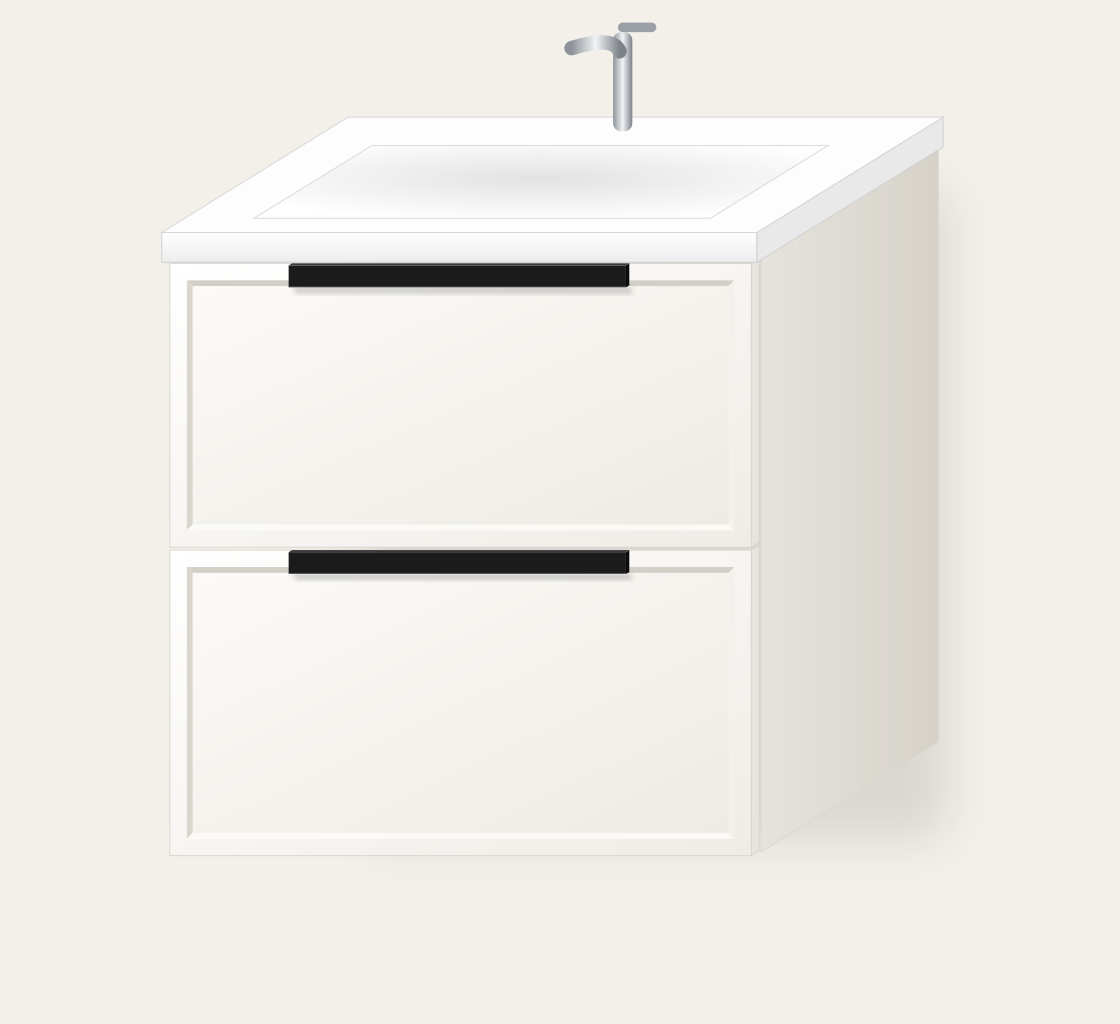
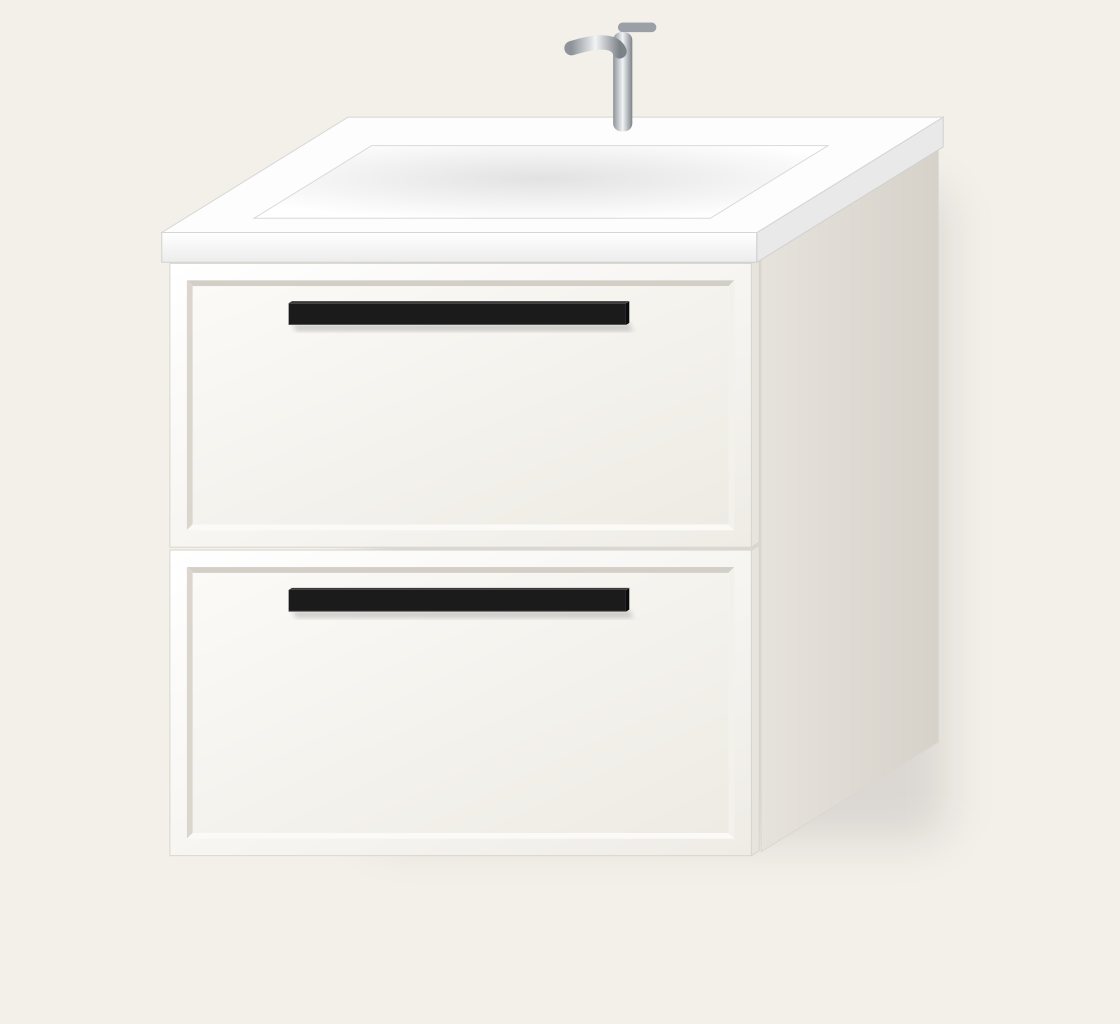
Модель 2: ручки LT22 под рамкой Мауры (38 мм от верха); сравнение вариантов
Claude-Session: https://claude.ai/code/session_01SKsW9NAaUaCHRJukYAe96U

Changed region(s): [[0.25, 0.5312, 0.5625, 0.625], [0.25, 0.25, 0.5625, 0.3438]]

diff --git a/modeli/vizual_podves.py b/modeli/vizual_podves.py
@@ -27,6 +27,9 @@ def handle(v, P, xy, hx, hy, zf=0):
     v.append(f'<line x1="{ax}" y1="{ay-2}" x2="{bx}" y2="{by-2}" stroke="rgba(255,255,255,.25)" stroke-width="1.4" stroke-linecap="round"/>')
 
 
+LT22_DROP = 38   # верх профиля LT22 от верхнего края фасада (модель 2, под рамкой)
+
+
 def handle_lt22(v, P, xy, poly, hx, top, zf=0, L=340, h=22, lip=8):
     """Профиль LT22 (ВіЯр 213758): чёрная накладка вдоль верхнего края фасада, отгиб вперёд-вниз."""
     x0, x1 = hx - L / 2, hx + L / 2
@@ -93,7 +96,8 @@ def render(mkey, style):
     for f in facades:   # ручки поверх фрезеровки
         if f["code"] in ("F1", "F2"):
             if style == "maura":
-                handle_lt22(v, P, xy, poly, f["x"] + f["w"] / 2, Y0 + f["top"])
+                # под рамкой Мауры: рамка ~20 мм + фреза (центр 23) -> верх профиля на 38 мм ниже края
+                handle_lt22(v, P, xy, poly, f["x"] + f["w"] / 2, Y0 + f["top"] - LT22_DROP)
             else:
                 handle(v, P, xy, f["x"] + f["w"] / 2, Y0 + f["top"] - 45)
     # умывальник

diff --git a/izdeliya/T2-Q60/spec.md b/izdeliya/T2-Q60/spec.md
@@ -66,7 +66,7 @@
 | Заглушки на эксцентрики в цвет (по желанию, они только внутри) | — | по месту |
 | Саморез 4×16 (направляющие к боковинам) | — | ~24 |
 | Саморез 4×25 (фасад к ящику изнутри) | — | 8 |
-| Ручка LT22 / 320/340 чорний матовий (ВіЯр 213758, серія Smart): алюмінієвий профіль-накладка з відгином, L=340, міжцентрова 320, на саморізи — по центру фасаду, вздовж верхнього краю | — | 2 |
+| Ручка LT22 / 320/340 чорний матовий (ВіЯр 213758, серія Smart): алюмінієвий профіль-накладка з відгином, L=340, міжцентрова 320, на саморізи — по центру фасаду, під рамкою Маури: верх профілю 38 мм від верхнього краю фасаду | — | 2 |
 | Крепление к стене: 2 анкера/шурупа 8×80 через заднюю верхнюю царгу или 2 навеса для подвесных тумб | — | 1 компл. |
 | Ограничитель для сифона пластиковий W=160 L=245 H=86 R=80, білий, Mesan | 228527 | 1 |
 | Сифон компактный (плоский) | — | 1 |
